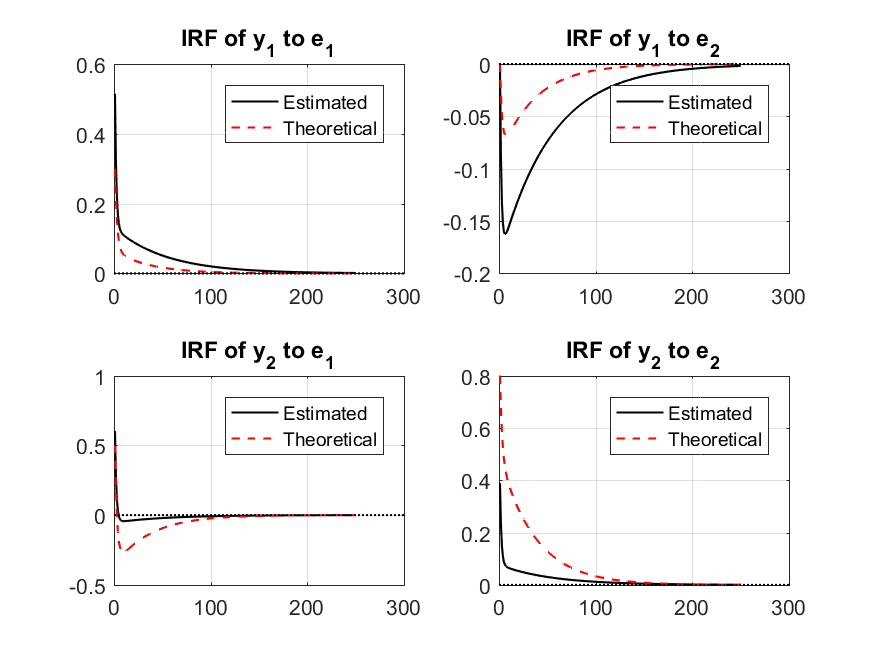
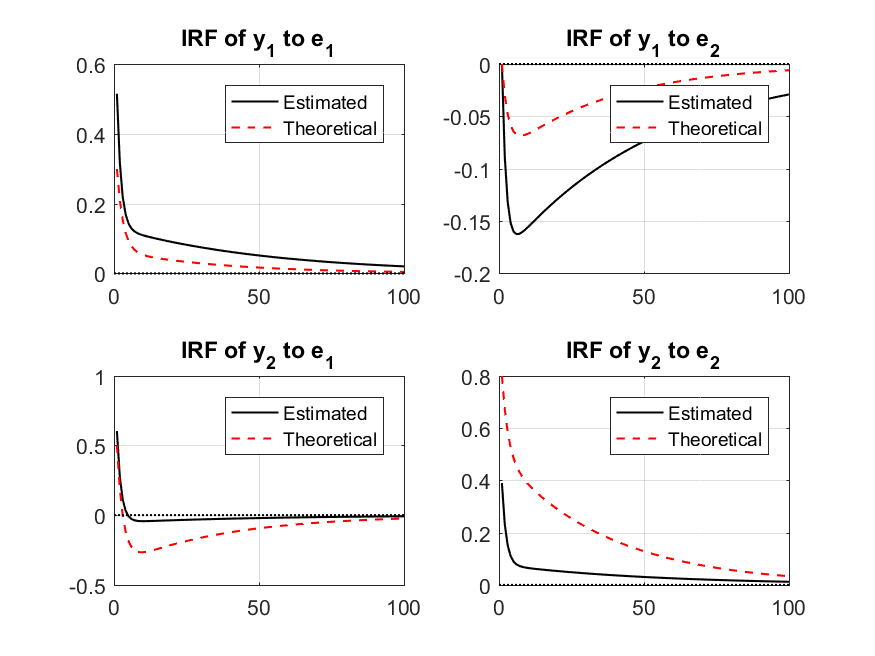
More sensical IRF horizon

diff --git a/tests/var_estim.m b/tests/var_estim.m
@@ -8,7 +8,7 @@ clc
 %% Setting up the environment (ensuring replicability)
 rng(3006510)
 T = 350;
-irf_horizon = 250;
+irf_horizon = 100;
 irf_identif = 'short-run';
 
 % Graphics settings
